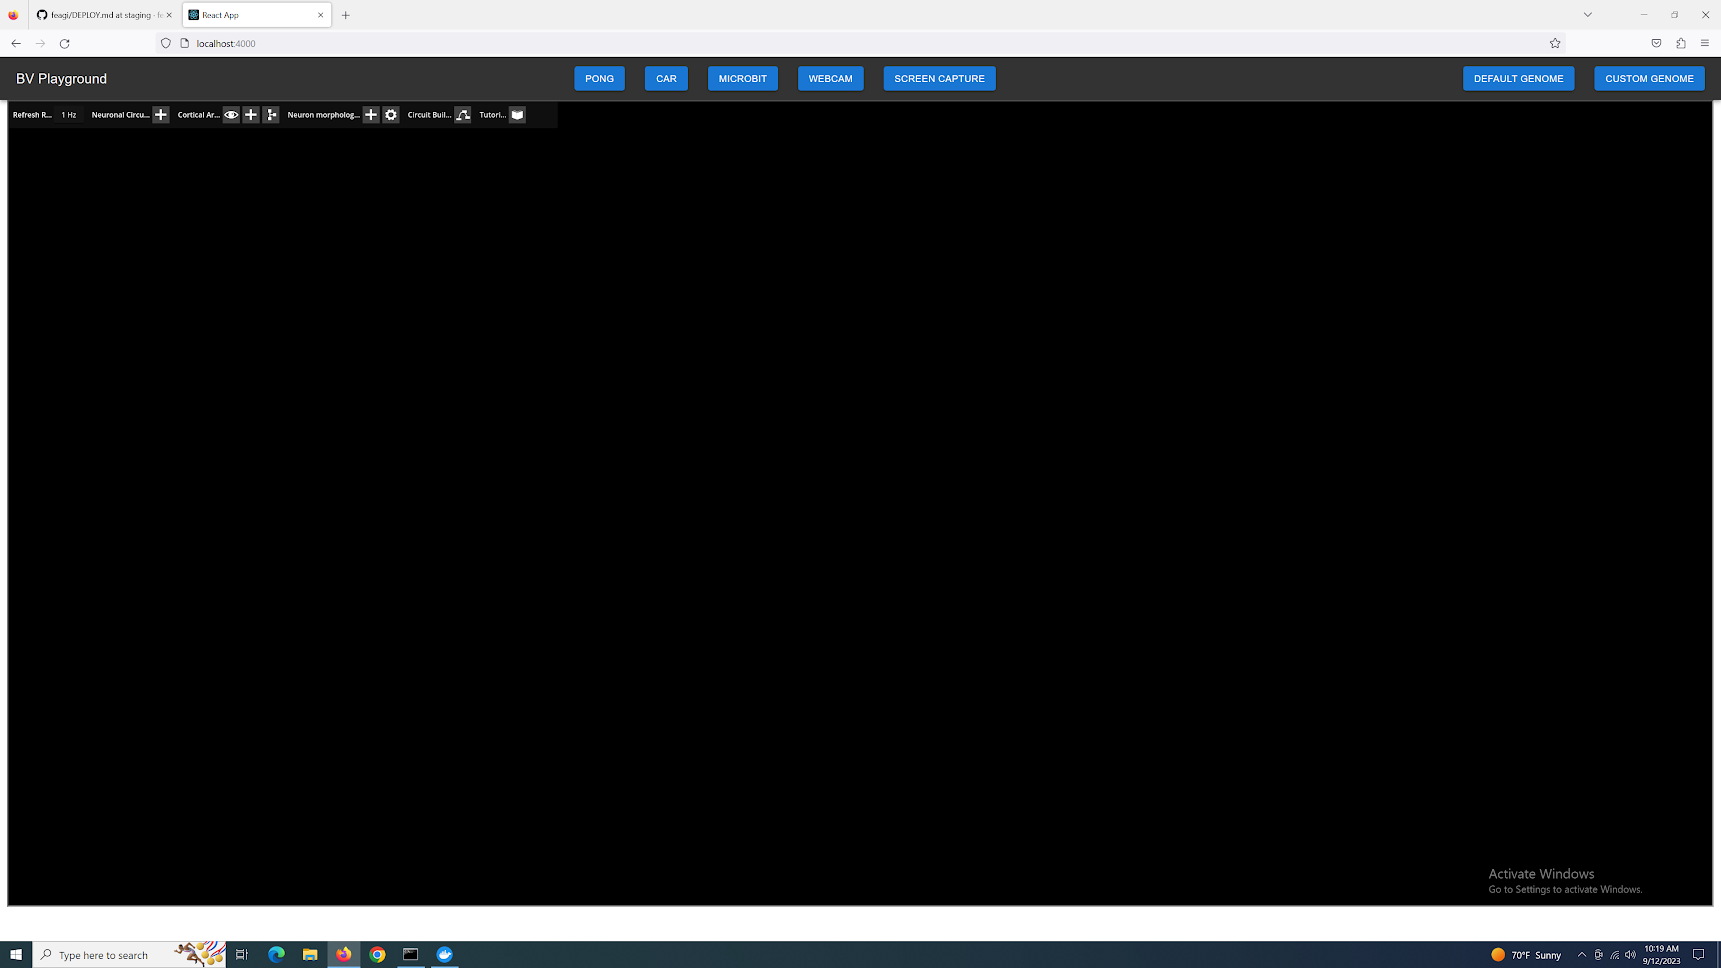
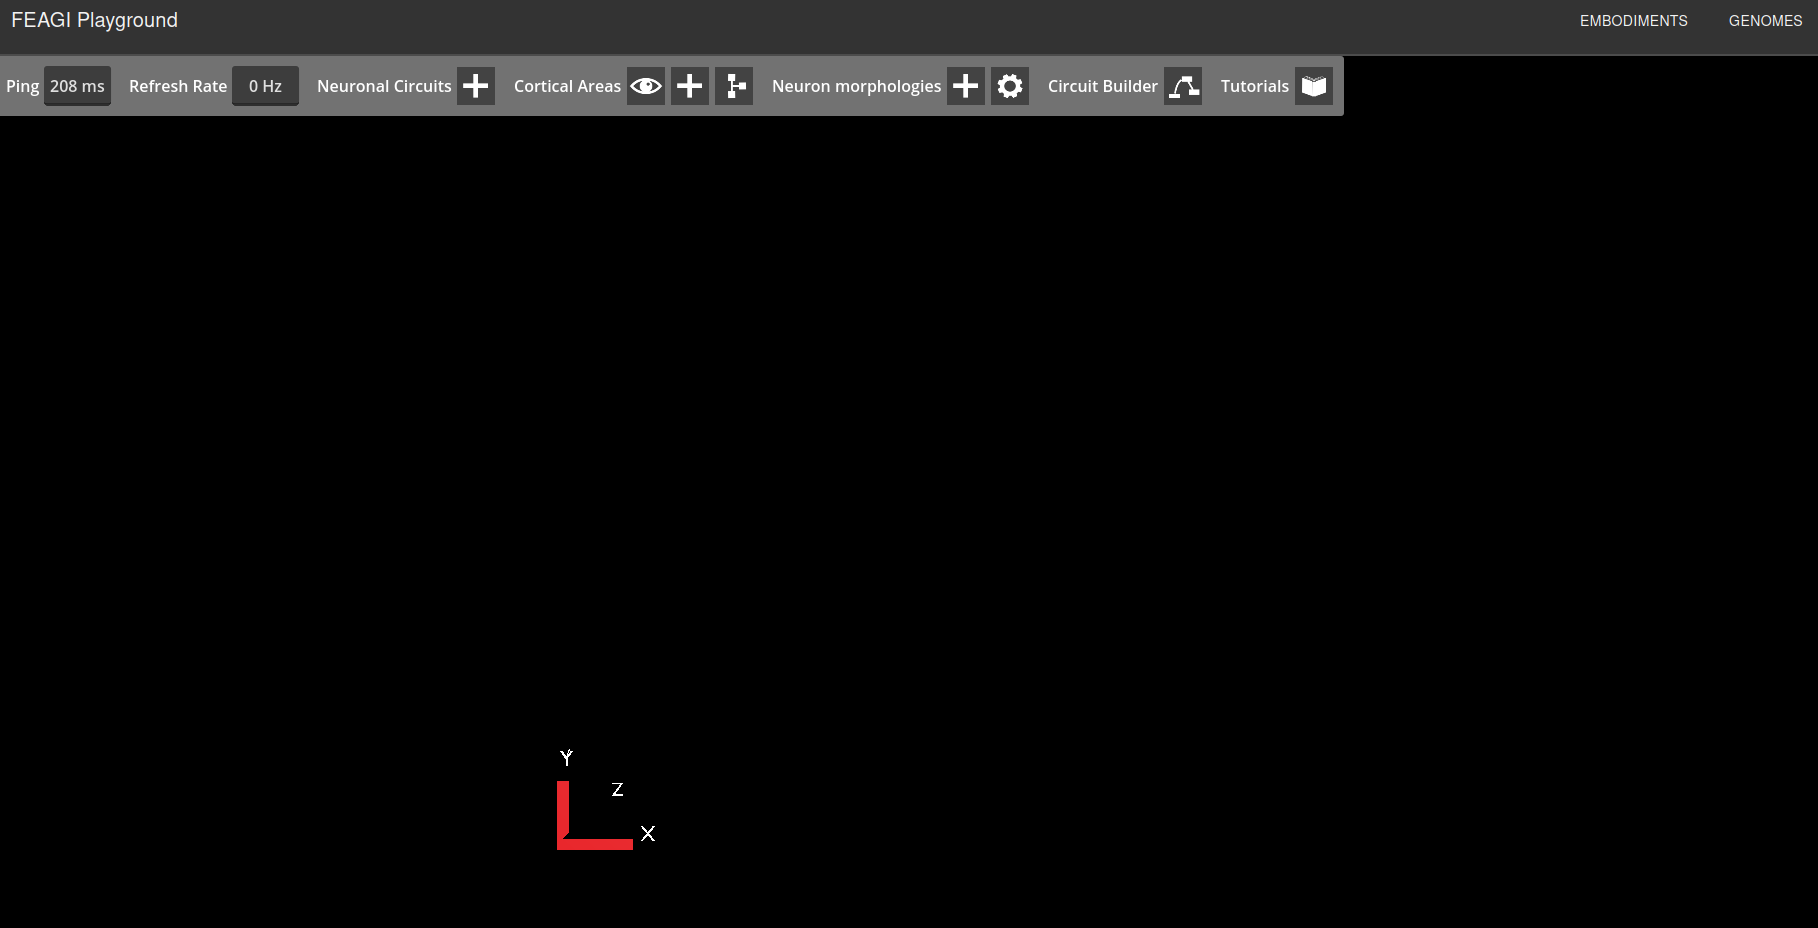
updated pictures and tweaked deploy.md

Changed region(s): [[0.0, 0.0, 1.0, 1.0]]

diff --git a/DEPLOY.md b/DEPLOY.md
@@ -58,7 +58,8 @@ In the command line/terminal run the following commands:
 ## 4. Launch the Brain Visualizer
 * To launch the application, open your browser and go to http://localhost:4000. You should see the playground launch page that looks like this:
   ![BV](_static/BV.png)
-* Then click on the 'Default Genome' in the top right corner, which looks like this:
+* Then click on 'Genomes' in the top right corner, and after that, click on 'Default Genome', which looks like this:
+* 
   ![genome](_static/default_and_custom_genome.png)
 * You should see Brain Visualizer like this:
   ![full_bv](_static/bv2.png)
